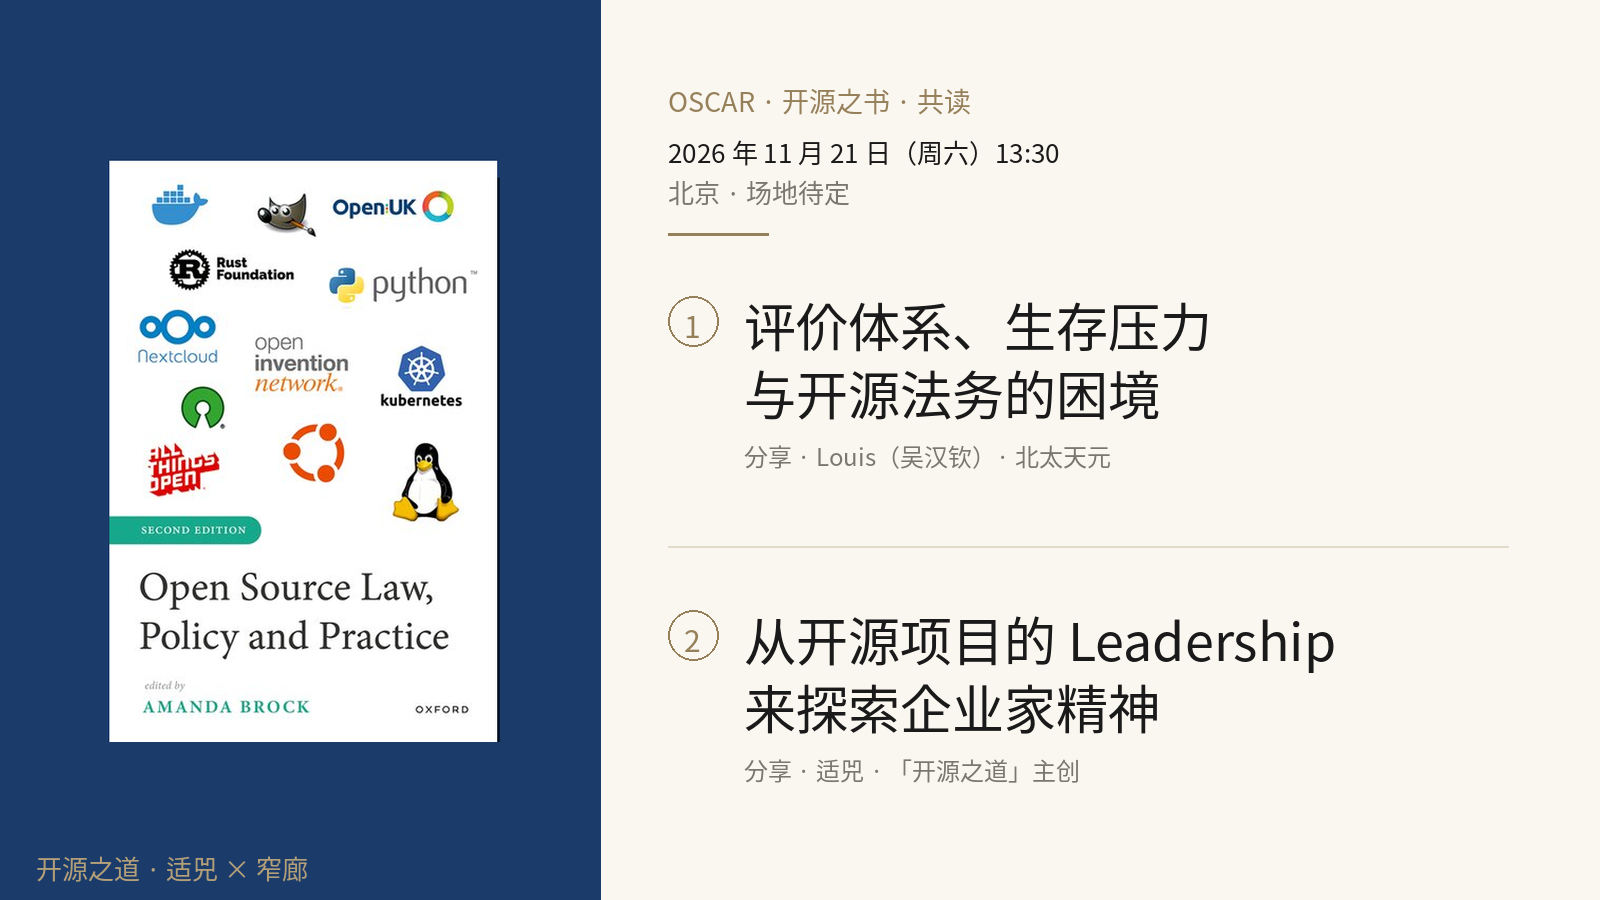
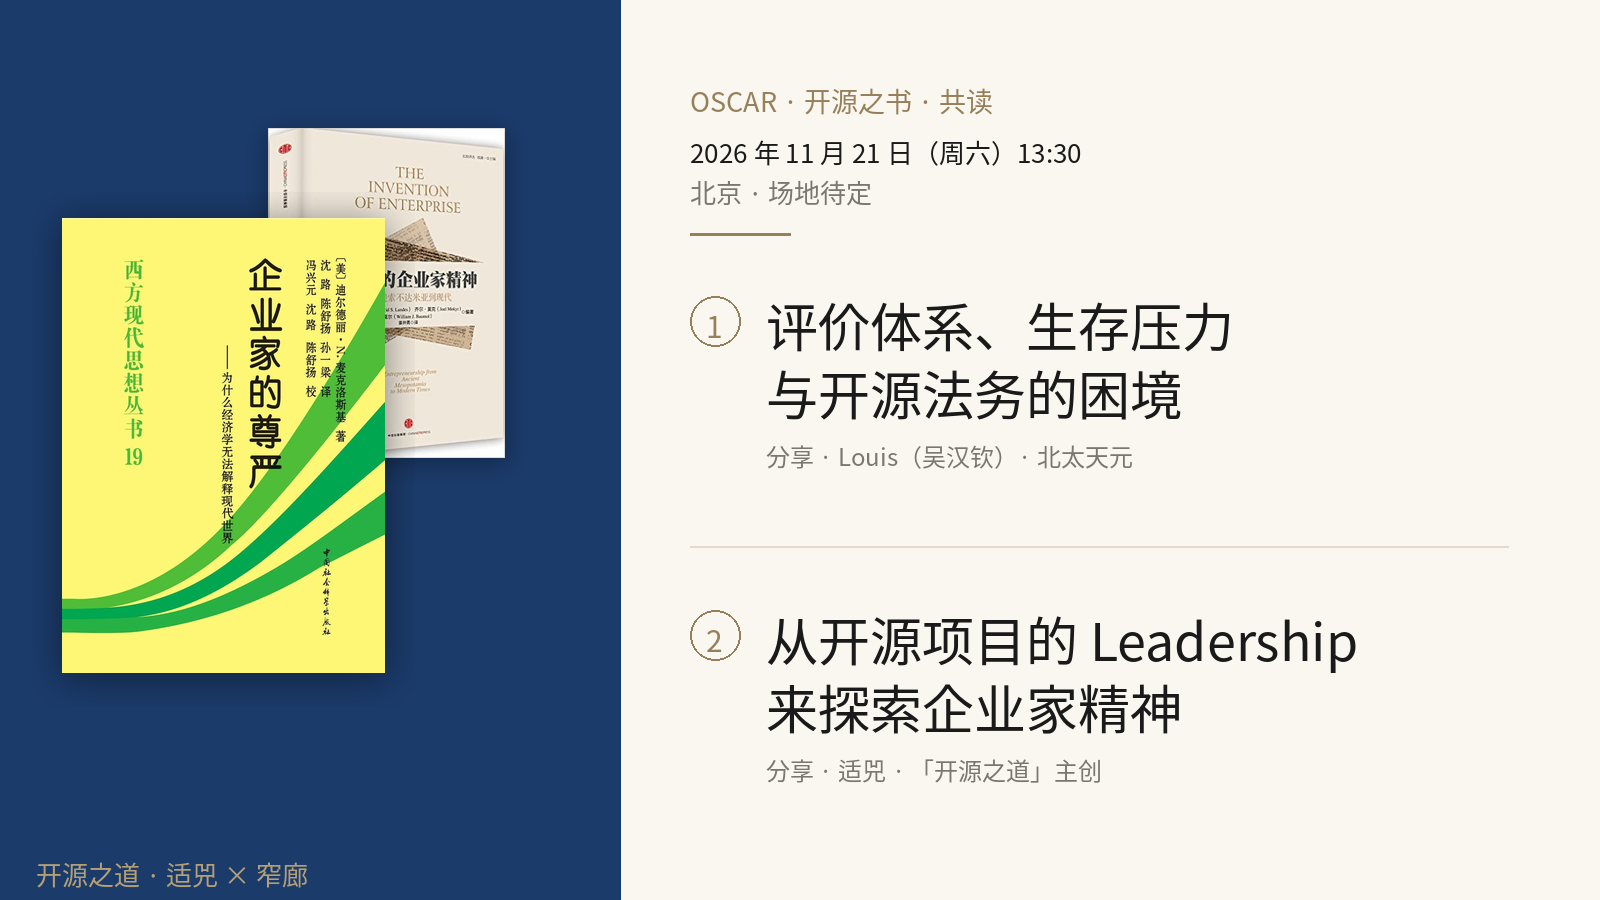
event: 11-21 延伸阅读收录两本企业家精神书目，缩略图跟进
适兕给两本豆瓣条目，并明确更推崇《企业家的尊严》，两本都加进推荐列表。

## 书目元数据（均从豆瓣条目与封面实拍核对，不凭记忆）
《企业家的尊严：为什么经济学无法解释现代世界》
- [美] 迪尔德丽·N. 麦克洛斯基；沈路、陈舒扬、孙一梁 译
- 中国社会科学出版社 2018-01；西方现代思想丛书 19
- ISBN 9787516199664；原作名 Bourgeois Dignity
- 豆瓣 subject/30182660（8.4 分）

《历史上的企业家精神：从古代美索不达米亚到现代》
- [美] 戴维·兰德斯、乔尔·莫基尔、威廉·鲍莫尔 编；姜井勇 译
- 中信出版社 2016-01；比较译丛
- ISBN 9787508655512；688 页；原作名 The Invention of Enterprise
- 豆瓣 subject/26686689

一处注意：豆瓣中文页把第二作者写作「莫克」，但书封印的是
Joel Mokyr，通行译名「莫基尔」，按书封写。

## 正文
两本书都收进「延伸阅读 · 企业家精神方向」，按适兕的推崇排主次：
《企业家的尊严》列前并标「推荐优先读这本」。

- 尊严这本写清她的方法（把韦伯/马克思/诺斯的解释挨个否定，理由都是
  「幅度对不上」）、核心论点（推手乃在于言辞；企业家需要同时拥有
  尊严与经济自由）、以及与开源的关系（贡献者回报失衡、做开源不算
  成就、评价体系错配，用她的框架看是尊严的不对称而非分配机制问题）
- 历史上的企业家精神补上中东宗教基金那段引文——「旨在固定住那些
  专用于特定目的的资源，从而也限制了灵活性和创新」，正好说明
  制度不是没给机会，而是把机会稳定导向不生产的地方
- 末尾加「两本一起读的顺序」：先读尊严建立判断，再读史料补充

文末参考同步补全两本的出版社与年份。

## 封面
从豆瓣条目取大图存入 assets/media/books/：
- bourgeois-dignity-mccloskey.jpg（1080×1519）
- invention-of-enterprise-landers-mokyr-baumol.jpg（359×499）
两张都目视核对过书名作者，确认不是错图。

## 缩略图
从「一本书封 + 双议题」改为「两本书层叠 + 双议题」：
《企业家的尊严》在前主位（更大、左下），《历史上的企业家精神》
在后略小右上，带投影形成层叠。两书垂直居中于左侧蓝块内，底部
只留署名「开源之道 · 适兕 × 窄廊」，不再叠书目标签（会与署名打架，
且页面正文已有完整书目信息）。

diff --git a/content/events/2026-11-21-beijing-reading-meetup.md b/content/events/2026-11-21-beijing-reading-meetup.md
@@ -136,19 +136,51 @@ editable: true
 
 **二、企业家精神方向**
 
+**《企业家的尊严：为什么经济学无法解释现代世界》** ← 推荐优先读这本
+
+- 作者：[美] 迪尔德丽·N. 麦克洛斯基
+- 译者：沈路、陈舒扬、孙一梁
+- 出版：中国社会科学出版社，2018 年 1 月 ／ 西方现代思想丛书 19
+- ISBN：9787516199664
+- 英文原名：*Bourgeois Dignity: Why Economics Can't Explain the Modern World*
+- 豆瓣：[https://book.douban.com/subject/30182660/](https://book.douban.com/subject/30182660/)（8.4 分）
+
+麦克洛斯基做了一件很少有人敢做的事：她把过去两百年解释「西方为什么富起来」的理论**挨个批判了一遍**——新教伦理（韦伯）、资本积累（马克思）、制度（诺斯），一章一个，结论几乎都是同一句：「幅度对不上」。
+
+然后她给出自己的答案，也是这本分享真正要引的那一句：
+
+> **推手乃在于言辞。** 人们对于市场、商业、企业家的态度、意见和评价，在很大程度上决定了社会经济的进步幅度。
+
+当欧洲对商业的态度从「涉足市场者十年内不许录用」，转为「尊重商人」，物质财富才突飞猛进。所以她的核心论点是：**企业家需要同时拥有尊严与经济自由**。没有尊严的经济自由，商人得到的只是被人鄙视的行商待遇；没有经济自由的尊严，则使社会阶层固化、个人生活无望。
+
+**这本书与开源的关系，比表面看起来近得多。** 开源世界里那些最棘手的问题——为什么贡献者得不到相称的回报、为什么「做开源」在某些语境里不算成就、为什么评价体系总是错配——用她的框架看，都不是分配机制的问题，而是**尊严的不对称**。她评点哈耶克那句「在社会演化中，没有什么是不可避免的，使其成为不可避免的，是思想」，恰好也是「开源之道」讲的「仁者心动」。
+
+> 全书 700 多页，不必读完。读前言、第一章、以及第三部分她正式立论的那几章即可。
+
+---
+
 **《历史上的企业家精神：从古代美索不达米亚到现代》**
 
-- 作者：戴维·兰德斯、乔尔·莫基尔、威廉·鲍莫尔（编）
-- 出版：中信出版社（中文版）
+- 作者：[美] 戴维·兰德斯、乔尔·莫基尔、威廉·鲍莫尔（编）
+- 译者：姜井勇
+- 出版：中信出版社，2016 年 1 月 ／ 比较译丛
+- ISBN：9787508655512 ／ 688 页
 - 英文原名：*The Invention of Enterprise: Entrepreneurship from Ancient Mesopotamia to Modern Times*
+- 豆瓣：[https://book.douban.com/subject/26686689/](https://book.douban.com/subject/26686689/)
 
-三位编者各管一段：兰德斯写技术与知识的长期演化，莫基尔写「增长的文化」与知识经济，鲍莫尔提出那个关键区分——**生产性、非生产性、破坏性的企业家活动**。同一个有企业家才能的人，在不同的制度环境里，可能去开工厂，也可能去寻租、去打仗、去搞权力寻租式的分配。
+三位编者各管一段：兰德斯写技术与知识的长期演化，莫基尔写「增长的文化」与知识经济，鲍莫尔提出那个关键区分——**生产性、非生产性、破坏性的企业家活动**。同一个有企业家才能的人，在不同的制度环境里，可能去开工厂，也可能去寻租、去打仗、去参与权力分配。
 
 这本书的价值在于它拒绝「企业家是天生的」这种解释。它用两千年、跨文明的史料说明：**企业家活动的数量或许稳定，但它的方向由制度决定。**
 
-与本期分享直接相关的是鲍莫尔那篇——它正好回答了「为什么有的时代企业家去创造，有的时代企业家去分配」这个问题。
+书里有一段可以直接搬到开源讨论里——讲中东为什么在伊斯兰早期之后相对衰落：国家任意征税的嗜好迫使富人寻求资产庇护，财产被吸进宗教基金，而宗教基金「旨在固定住那些专用于特定目的的资源，从而也限制了灵活性和创新」。**制度不是没给机会，而是把机会稳定地导向了不生产的地方。**
+
+与本期分享直接相关的是鲍莫尔那篇——它正好回答「为什么有的时代企业家去创造、有的时代去分配」。
 
 > 不要求预习。想先读的话，读鲍莫尔那一章即可。
+
+---
+
+**两本一起读的顺序**：先读《企业家的尊严》建立判断，再读《历史上的企业家精神》补史料。前者回答「为什么是观念」，后者回答「观念如何在不同制度里结出不同的果」。
 
 ---
 
@@ -188,4 +220,4 @@ editable: true
 
 ---
 
-*本期参考：Amanda Brock（ed.）《Open Source Law, Policy and Practice》（Oxford University Press, 2023）；兰德斯、莫基尔、鲍莫尔（编）《历史上的企业家精神》；Louis（吴汉钦）开源之书·共读 CFP 投稿（2026-06-23）；适兕《从开源项目的 Leadership 来探索企业家精神》（「开源之道」，2026）*
+*本期参考：Amanda Brock（ed.）《Open Source Law, Policy and Practice》（Oxford University Press, 2023）；迪尔德丽·N. 麦克洛斯基《企业家的尊严》（中国社会科学出版社, 2018）；戴维·兰德斯、乔尔·莫基尔、威廉·鲍莫尔（编）《历史上的企业家精神》（中信出版社, 2016）；Louis（吴汉钦）开源之书·共读 CFP 投稿（2026-06-23）；适兕《从开源项目的 Leadership 来探索企业家精神》（「开源之道」，2026）*
